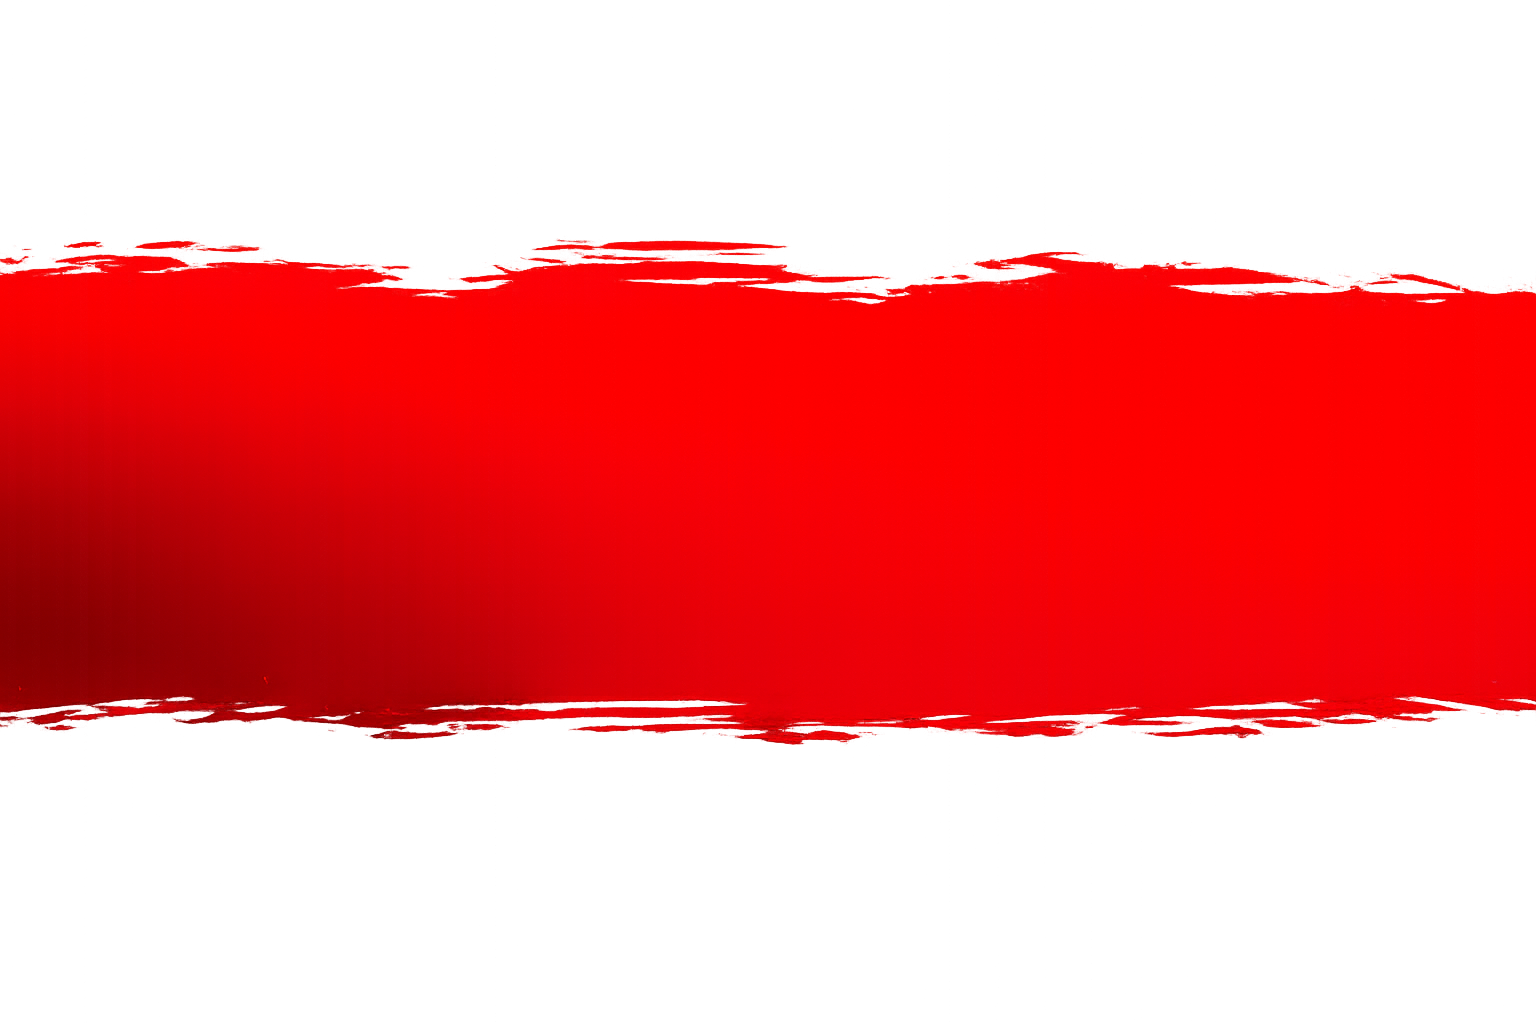
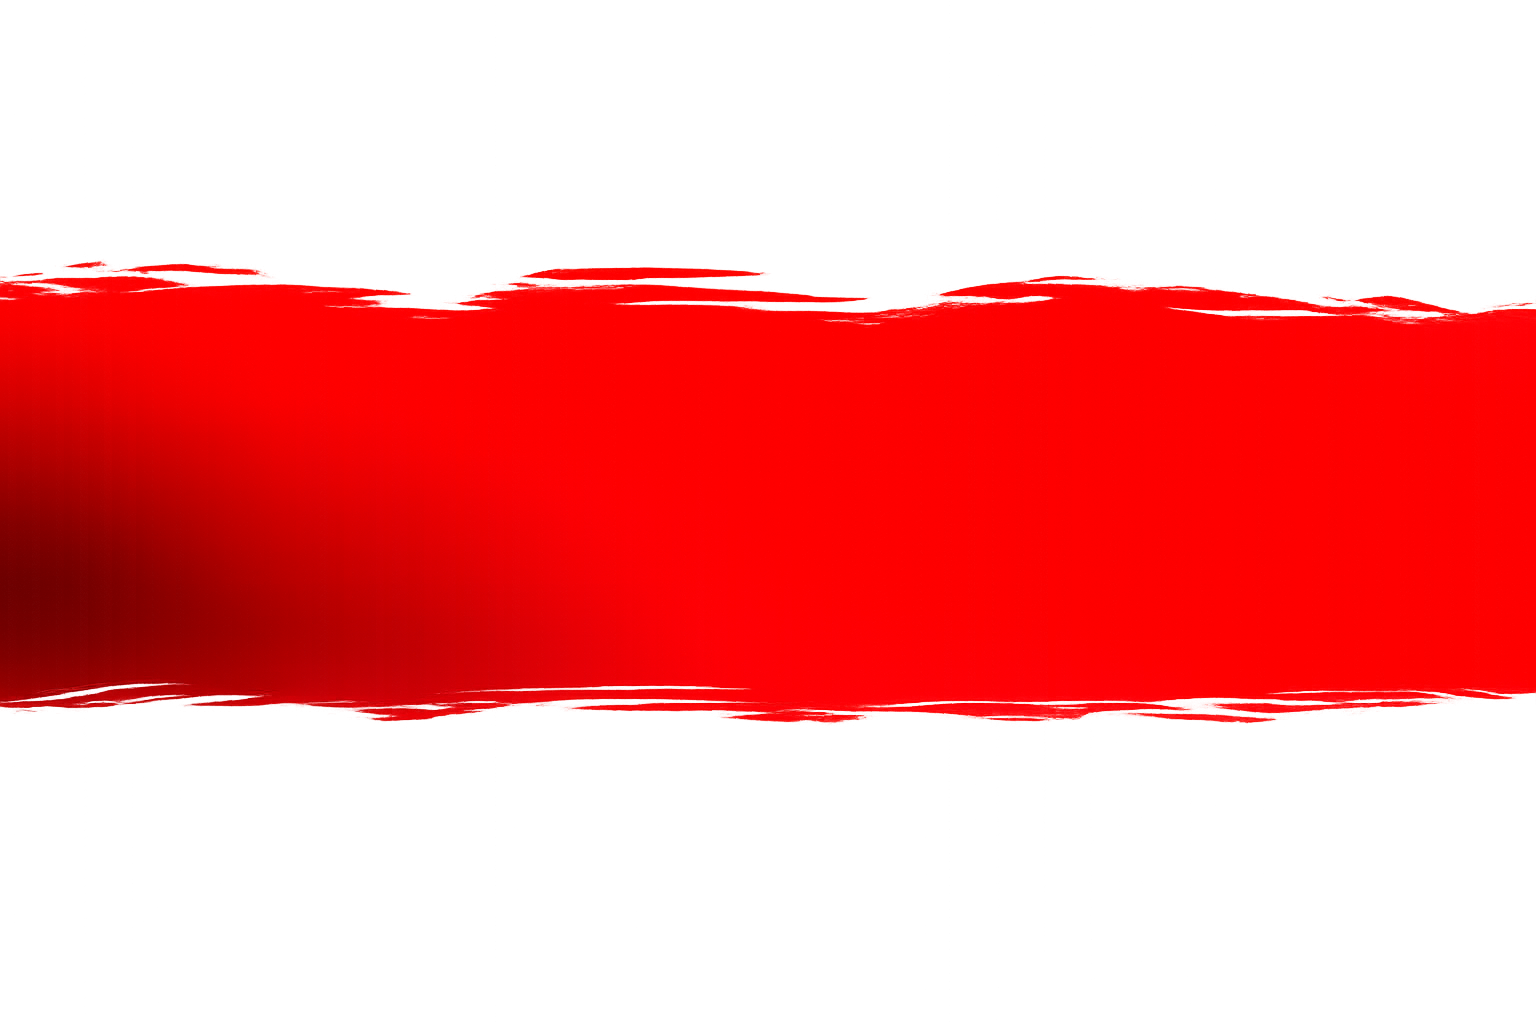
added feature menu section

Changed region(s): [[0.0, 0.5938, 1.0, 0.75], [0.0, 0.2188, 1.0, 0.3125], [0.0, 0.4688, 0.0938, 0.5938]]

diff --git a/public/css/home.css b/public/css/home.css
@@ -4,7 +4,6 @@
     position: relative;
     height: 100vh;
     min-height: 700px;
-    background-color: var(--dark-bg);
     display: flex;
     align-items: center;
     justify-content: center;
@@ -22,69 +21,15 @@
     opacity: 1;
 }
 
-.hero-overlay {
-    position: absolute;
-    top: 0;
-    left: 0;
-    width: 100%;
-    height: 100%;
-    background: linear-gradient(0deg, rgba(0,0,0,0.5) 0%, rgba(0,0,0,0.1) 100%);
-    z-index: 2;
-}
-
-.hero-content {
-    position: relative;
-    z-index: 3;
-    text-align: center;
-    padding-top: 50px;
-}
-
-.hero-title {
-    display: flex;
-    flex-direction: column;
-    align-items: center;
-    justify-content: center;
-    margin-top: -50px;
-}
-
-.hero-title .amour {
-    font-family: 'Playfair Display', serif;
-    font-style: italic;
-    font-size: 5rem;
-    color: var(--text-light);
-    font-weight: 400;
-    margin-bottom: -40px;
-    margin-right: 150px;
-    text-shadow: 0 0 20px rgba(255,255,255,0.3);
-}
-
-.hero-title .et {
-    font-family: 'Poppins', sans-serif;
-    color: #ffd700;
-    font-size: 1.5rem;
-    font-weight: 600;
-    position: absolute;
-    left: 50%;
-    transform: translateX(-180px) translateY(30px);
-    z-index: 4;
-}
-
-.hero-title .grace {
-    font-family: 'Playfair Display', serif;
-    font-size: 7rem;
-    color: var(--text-light);
-    font-weight: 700;
-    letter-spacing: 5px;
-    text-shadow: 2px 4px 15px rgba(0,0,0,0.8), 0 0 30px rgba(255,0,0,0.5);
-}
 
 /* About Us Section */
 .about-section {
-    background-color: var(--primary-color);
-    padding: 100px 0;
+    padding: 100px 0 40px 0;
     position: relative;
     color: var(--text-light);
-    background: url('../assets/images/torn paper.png') center/cover no-repeat;
+    background:
+        url('../assets/images/torn paper.png') center/cover no-repeat,
+        linear-gradient(to bottom, #000000 0%, #000000 50%, var(--light-bg) 50%, var(--light-bg) 100%);
 }
 
 .about-section::before {
@@ -123,8 +68,8 @@
 .about-placeholder-box {
     width: 150px;
     height: 150px;
-    background-color: rgba(255,255,255,0.8);
-    box-shadow: 0 10px 20px rgba(0,0,0,0.2);
+    background-color: rgba(255, 255, 255, 0.8);
+    box-shadow: 0 10px 20px rgba(0, 0, 0, 0.2);
 }
 
 .stats-group {
@@ -140,7 +85,7 @@
     font-size: 2.5rem;
     margin-bottom: 5px;
     font-weight: 700;
-    text-shadow: 1px 1px 3px rgba(0,0,0,0.3);
+    text-shadow: 1px 1px 3px rgba(0, 0, 0, 0.3);
 }
 
 .stat-item p {
@@ -164,8 +109,9 @@
 
 /* Featured Menu Section */
 .featured-menu-section {
-    padding: 100px 0;
+    padding: 30px 0 100px 0;
     background-color: var(--light-bg);
+    overflow-x: hidden;
 }
 
 .menu-item-row {
@@ -177,22 +123,26 @@
     position: relative;
 }
 
+.reverse-row {
+    flex-direction: row-reverse;
+}
+
 .menu-item-row::before {
     content: '';
     position: absolute;
-    top: -50px;
-    left: -100px;
+    top: 50%;
+    left: -200px;
+    transform: translateY(-50%);
     width: 500px;
     height: 500px;
     background: url('../assets/images/house.jpg') center/contain no-repeat;
-    opacity: 0.15;
+    opacity: 0.12;
     z-index: 0;
-    mix-blend-mode: multiply;
 }
 
 .reverse-row::before {
     left: auto;
-    right: -100px;
+    right: -200px;
 }
 
 .menu-text-col {
@@ -225,94 +175,101 @@
 
 .align-right {
     justify-content: flex-end;
+    margin-right: -250px;
 }
 
 .align-left {
     justify-content: flex-start;
+    margin-left: -250px;
 }
 
 .dish-image-wrapper {
-    width: 450px;
-    height: 450px;
-    border-radius: 50%;
-    overflow: hidden;
+    width: 500px;
+    height: 500px;
     position: relative;
-    box-shadow: 0 20px 40px rgba(0,0,0,0.15);
     display: flex;
     align-items: center;
     justify-content: center;
-    transition: var(--transition-smooth);
 }
 
-.dish-image-wrapper:hover {
-    transform: scale(1.02);
-    box-shadow: 0 25px 50px rgba(0,0,0,0.2);
+.dish-image-wrapper::before {
+    content: '';
+    position: absolute;
+    top: 0;
+    left: 0;
+    width: 100%;
+    height: 100%;
+    border-radius: 50%;
+    z-index: 0;
 }
 
-.circle-mask.gray-bg {
-    background-color: #e5e5e5;
+.circle-mask.gray-bg::before {
+    background-color: #eaeaea;
 }
 
-.circle-mask.red-bg {
-    background-color: var(--primary-dark);
+.circle-mask.red-bg::before {
+    background-color: #b30000;
 }
 
 .dish-img {
     width: 100%;
-    height: 100%;
-    object-fit: cover;
+    height: auto;
+    object-fit: contain;
+    position: relative;
+    z-index: 1;
     transition: transform 0.5s ease;
 }
 
+/* Offset the food image away from the center */
+.align-right .dish-img {
+    right: 16%;
+}
+
+.align-left .dish-img {
+    left: 16%;
+}
+
 .dish-image-wrapper:hover .dish-img {
-    transform: scale(1.05);
+    transform: scale(1.08);
 }
 
 /* Responsive adjustments */
 @media (max-width: 992px) {
-    .menu-item-row, .reverse-row {
+
+    .menu-item-row,
+    .reverse-row {
         flex-direction: column;
         text-align: center;
     }
-    
+
     .menu-text-col {
         max-width: 100%;
         margin-bottom: 40px;
     }
-    
-    .menu-image-col.align-right, .menu-image-col.align-left {
+
+    .menu-image-col.align-right,
+    .menu-image-col.align-left {
         justify-content: center;
     }
-    
+
     .about-stats-container {
         justify-content: center;
         flex-direction: column;
     }
-    
-    .hero-title .amour {
-        font-size: 4rem;
-        margin-right: 100px;
-    }
-    
-    .hero-title .grace {
-        font-size: 5rem;
-    }
-    
-    .hero-title .et {
-        transform: translateX(-120px) translateY(20px);
-    }
+
 }
 
 @media (max-width: 768px) {
     .nav-links {
-        display: none; /* Add hamburger menu later */
+        display: none;
+        /* Add hamburger menu later */
     }
-    
+
     .dish-image-wrapper {
         width: 300px;
         height: 300px;
     }
-    
+
     .stats-group {
         flex-wrap: wrap;
         justify-content: center;

diff --git a/public/index.html b/public/index.html
@@ -26,7 +26,6 @@
     <header class="navbar">
         <div class="container nav-container">
             <div class="logo">
-                <h1>LOUNGE</h1>
             </div>
             <nav>
                 <ul class="nav-links">
@@ -41,15 +40,8 @@
 
     <!-- Hero Section -->
     <section id="home" class="hero-section">
-        <img src="assets/images/hero section landscape.png" id="hero-bg-img" alt="Amour et Grace Hero Background">
-        <div class="hero-overlay"></div>
-        <div class="container hero-content">
-            <h2 class="hero-title">
-                <span class="amour">Amour</span>
-                <span class="et">et</span>
-                <span class="grace">GRÂCE</span>
-            </h2>
-        </div>
+        <img src="assets/images/landscape.png" id="hero-bg-img" alt="Amour et Grace Hero Background">
+
     </section>
 
     <!-- About Us Section -->
@@ -105,7 +97,8 @@
                     </div>
                     <div class="menu-image-col align-right">
                         <div class="dish-image-wrapper circle-mask gray-bg">
-                            <img src="assets/images/karekare.png" alt="Filipino Cuisine" class="dish-img" id="filipino-img">
+                            <img src="assets/images/karekare.png" alt="Filipino Cuisine" class="dish-img"
+                                id="filipino-img">
                         </div>
                     </div>
                 </div>
@@ -123,7 +116,8 @@
                     </div>
                     <div class="menu-image-col align-left">
                         <div class="dish-image-wrapper circle-mask red-bg">
-                            <img src="assets/images/sushi.png" alt="Japanese Cuisine" class="dish-img" id="japanese-img">
+                            <img src="assets/images/sushi.png" alt="Japanese Cuisine" class="dish-img"
+                                id="japanese-img">
                         </div>
                     </div>
                 </div>